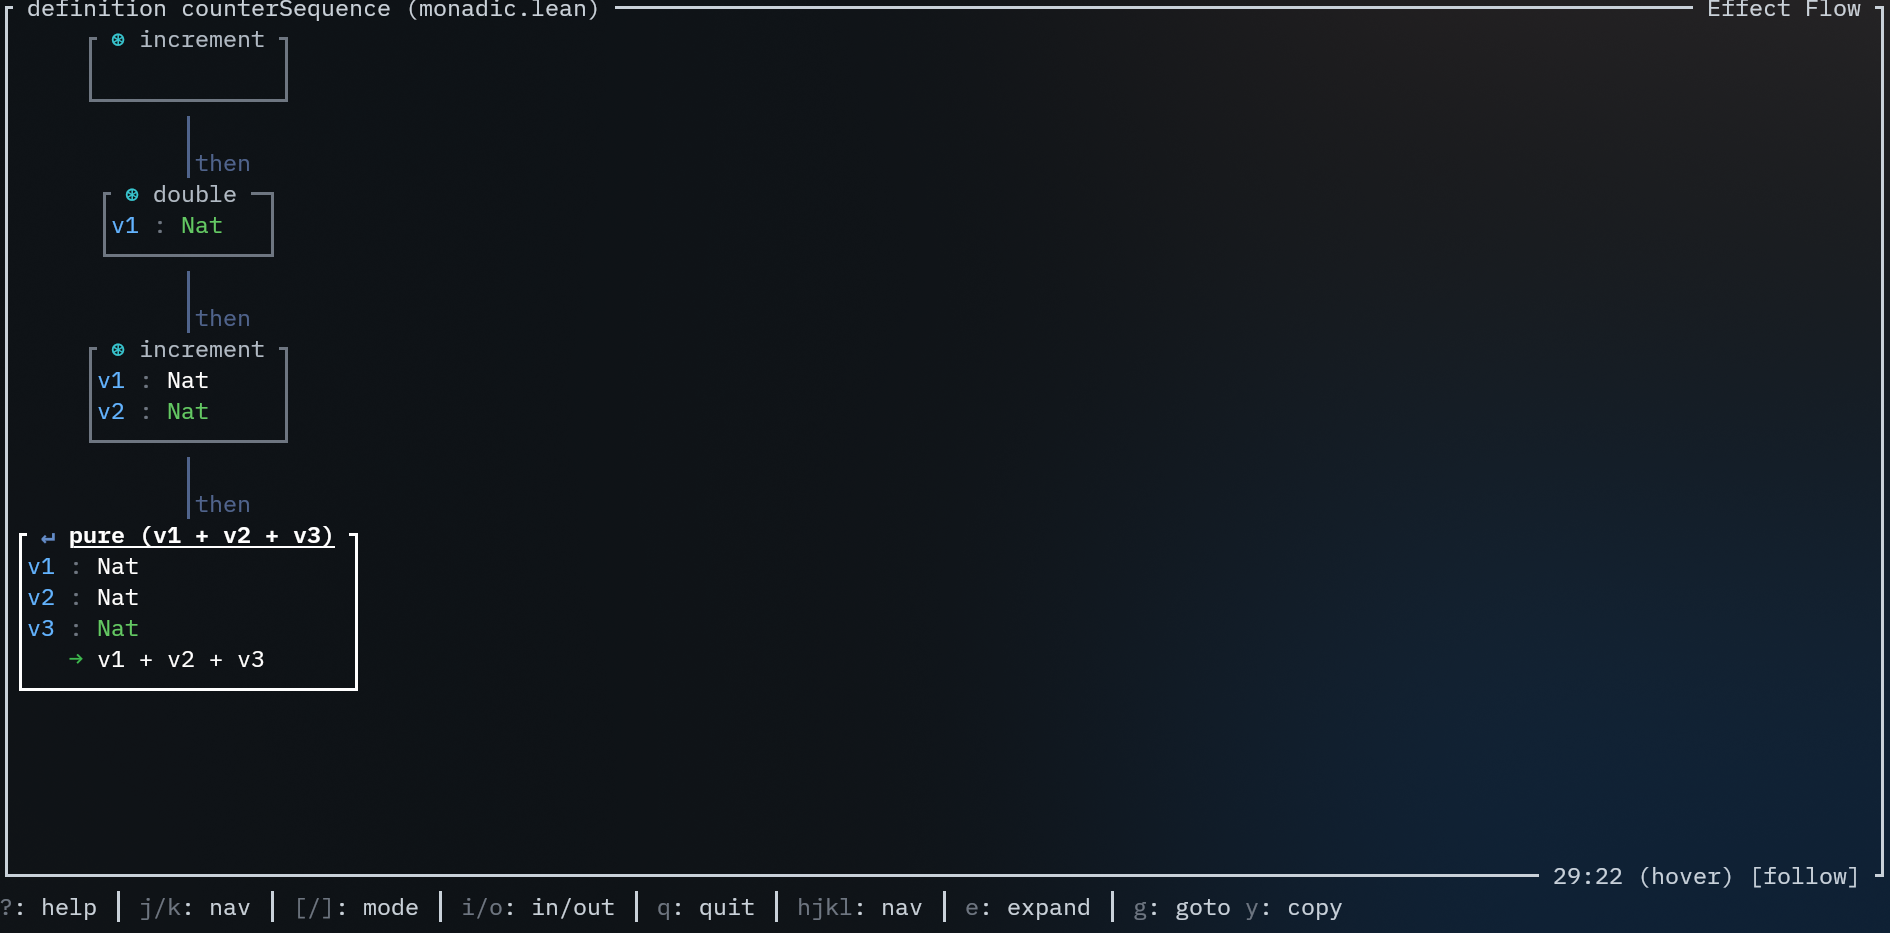
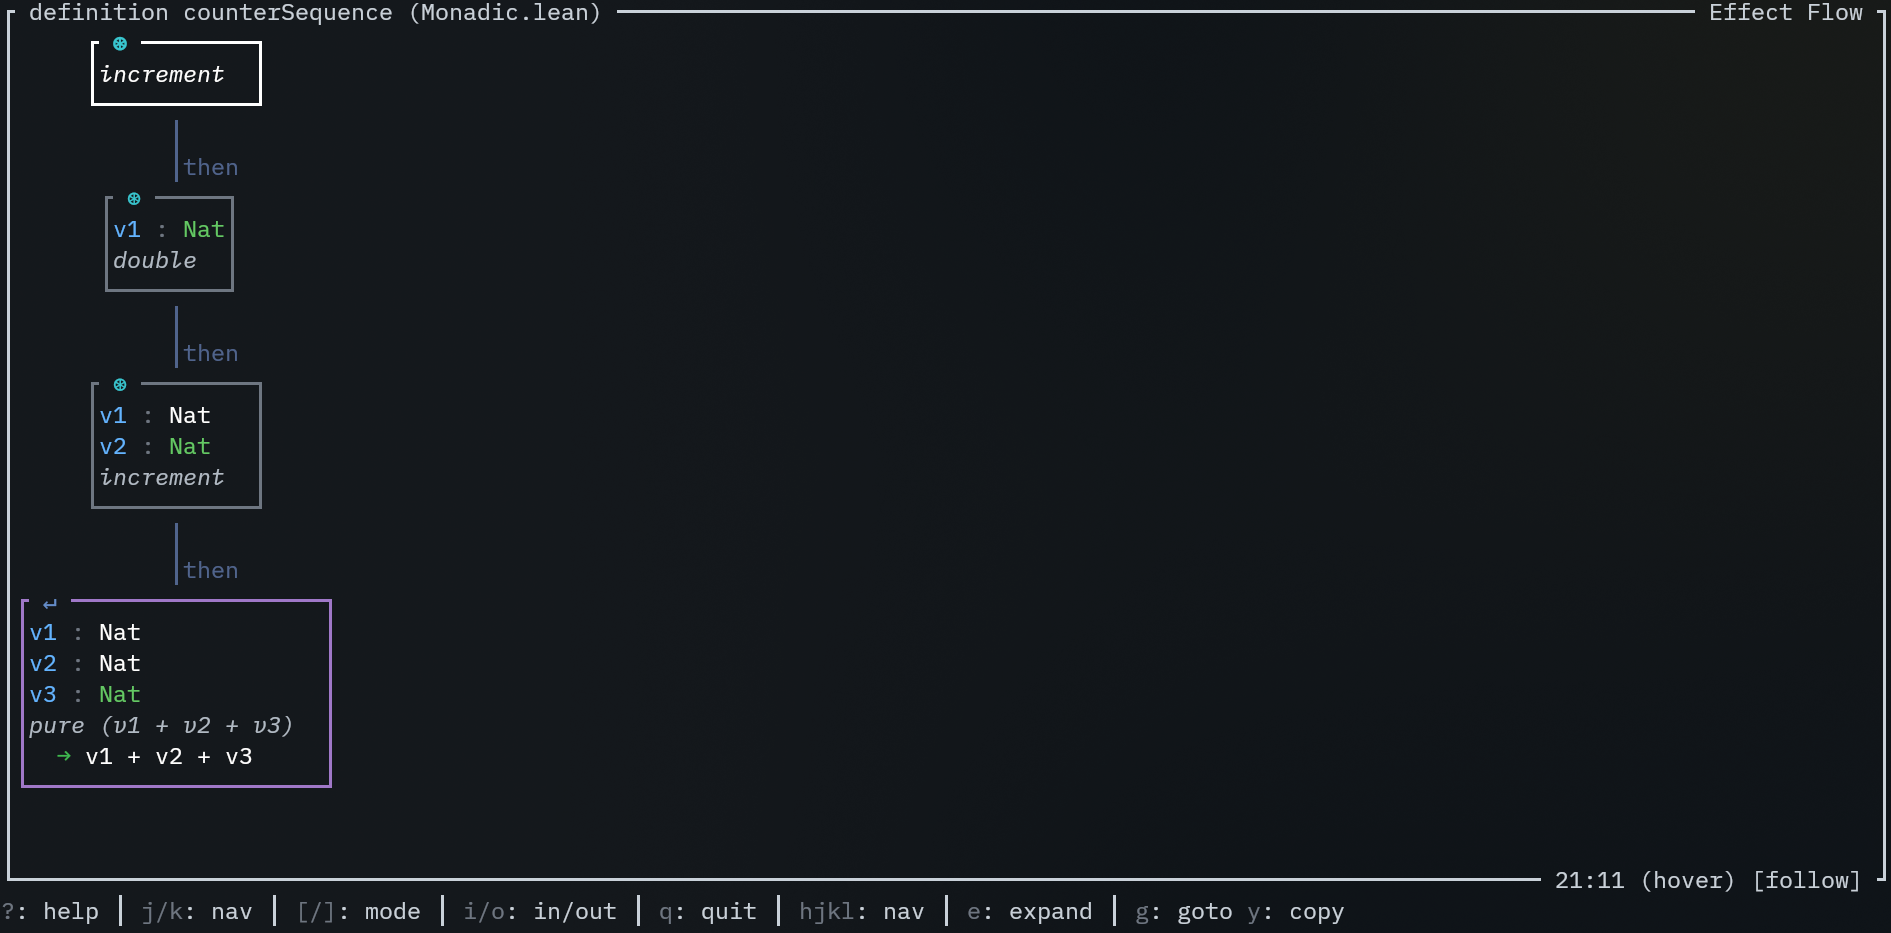
fix: make layout of effect flow nodes more intuitive

diff --git a/src/effect_flow/state_node.rs b/src/effect_flow/state_node.rs
@@ -27,16 +27,11 @@ pub struct EffectStateNodeState {
 pub struct EffectStateNode<'a> {
     node: &'a EffectFlowNode,
     is_current: bool,
-    is_selected: bool,
 }
 
 impl<'a> EffectStateNode<'a> {
-    pub const fn new(node: &'a EffectFlowNode, is_current: bool, is_selected: bool) -> Self {
-        Self {
-            node,
-            is_current,
-            is_selected,
-        }
+    pub const fn new(node: &'a EffectFlowNode, is_current: bool) -> Self {
+        Self { node, is_current }
     }
 
     fn effect_kind(&self) -> &EffectKind {
@@ -82,45 +77,39 @@ impl<'a> EffectStateNode<'a> {
 
     fn title(&self) -> Vec<Span<'static>> {
         let kind = self.effect_kind();
-        let expr_text = self.node.content.to_plain_text();
         let has_error = self.node.has_error();
 
+        let mut spans = Vec::new();
+
+        // Icon in the title (top-left corner)
         let icon_style = if has_error {
             Style::new().fg(Red::BRIGHT)
         } else {
             Style::new().fg(kind.color())
         };
-
-        let mut text_style = if has_error {
-            Style::new().fg(Red::BRIGHT).add_modifier(Modifier::BOLD)
-        } else if self.is_current {
-            Style::new().fg(Color::White).add_modifier(Modifier::BOLD)
-        } else {
-            Style::new().fg(Color::Gray)
-        };
-
-        if self.is_selected {
-            text_style = text_style.add_modifier(Modifier::UNDERLINED);
-        }
-
-        let mut spans = Vec::new();
+        spans.push(Span::styled(format!(" {}", kind.icon()), icon_style));
 
         if has_error {
             spans.push(Span::styled(" ⚠", Style::new().fg(Red::BRIGHT)));
         }
 
-        spans.push(Span::styled(format!(" {} ", kind.icon()), icon_style));
-        spans.push(Span::styled(expr_text, text_style));
-
-        if self.node.edges.len() > 1 {
-            spans.push(Span::styled(
-                format!(" [{}→]", self.node.edges.len()),
-                Style::new().fg(Color::DarkGray),
-            ));
-        }
-
         spans.push(Span::raw(" "));
         spans
+    }
+
+    fn build_expression_line(&self) -> Line<'static> {
+        let has_error = self.node.has_error();
+
+        // Use ITALIC to distinguish expression from goals (which use bold/normal)
+        let style = if has_error {
+            Style::new().fg(Red::BRIGHT).add_modifier(Modifier::ITALIC)
+        } else if self.is_current {
+            Style::new().fg(Color::White).add_modifier(Modifier::ITALIC)
+        } else {
+            Style::new().fg(Color::Gray).add_modifier(Modifier::ITALIC)
+        };
+
+        Line::from(self.node.content.to_spans(style))
     }
 
     fn build_binding_rows(&self) -> Vec<AlignedRow> {
@@ -224,31 +213,40 @@ impl StatefulWidget for EffectStateNode<'_> {
             return;
         }
 
-        // Build table rows: bindings first, then effects
-        let mut rows: Vec<AlignedRow> = Vec::new();
-        rows.extend(self.build_binding_rows());
-        rows.extend(self.build_effect_rows());
+        let mut y = inner.y;
 
-        let table_height = rows.len() as u16;
-        let table_area = Rect::new(
-            inner.x,
-            inner.y,
-            inner.width,
-            table_height.min(inner.height),
-        );
+        // 1. Render bindings table
+        let binding_rows = self.build_binding_rows();
+        if !binding_rows.is_empty() {
+            let bindings_height = (binding_rows.len() as u16).min(inner.height);
+            let bindings_area = Rect::new(inner.x, y, inner.width, bindings_height);
+            Widget::render(AlignedTable::new(binding_rows), bindings_area, buf);
+            y += bindings_height;
+        }
 
-        let table = AlignedTable::new(rows);
-        Widget::render(table, table_area, buf);
+        // 2. Render expression line
+        if y < inner.y + inner.height {
+            buf.set_line(inner.x, y, &self.build_expression_line(), inner.width);
+            y += 1;
+        }
 
-        // Render error diagnostics below the table
+        // 3. Render effects table
+        let effect_rows = self.build_effect_rows();
+        if !effect_rows.is_empty() && y < inner.y + inner.height {
+            let effects_height = (effect_rows.len() as u16).min(inner.y + inner.height - y);
+            let effects_area = Rect::new(inner.x, y, inner.width, effects_height);
+            Widget::render(AlignedTable::new(effect_rows), effects_area, buf);
+            y += effects_height;
+        }
+
+        // 4. Render error diagnostics below
         let error_lines = format_diagnostic_lines(&self.node.diagnostics);
-        let error_y = inner.y + table_height;
-        for (i, line) in error_lines.into_iter().enumerate() {
-            let row_y = error_y + i as u16;
-            if row_y >= inner.y + inner.height {
+        for line in error_lines {
+            if y >= inner.y + inner.height {
                 break;
             }
-            buf.set_line(inner.x, row_y, &line, inner.width);
+            buf.set_line(inner.x, y, &line, inner.width);
+            y += 1;
         }
 
         state.click_regions = self.click_regions(area);

diff --git a/src/effect_flow/types.rs b/src/effect_flow/types.rs
@@ -10,8 +10,7 @@ use ratatui::style::{Color, Style};
 
 use crate::{
     graph_layout::{
-        calculate_node_size, Dag, DagGraph, DagNode, EdgeData, LayoutGraph, LayoutSize, NavNode,
-        NodeTextContent,
+        Dag, DagGraph, DagNode, EdgeData, LayoutGraph, LayoutSize, NavNode, NodeTextContent,
     },
     protocol::{
         DiagnosticInfo, DiagnosticSeverity, DisplayStyle, GenericDag, GraphEdge, GraphNode,
@@ -59,7 +58,7 @@ impl EffectKind {
         }
     }
 
-    pub fn icon(&self) -> &str {
+    pub fn icon(&self) -> &'static str {
         match self {
             Self::EffectBind => "⊛",
             Self::EffectBranch => "⎇",
@@ -227,6 +226,9 @@ impl NodeTextContent for EffectFlowNode {
             }
         }
 
+        // Add expression line - always present
+        lines.push(self.content.to_plain_text());
+
         // Add forward/backward effect lines
         if let Some(fwd) = &self.forward {
             lines.push(format!("→ {fwd}"));
@@ -237,7 +239,8 @@ impl NodeTextContent for EffectFlowNode {
 
         lines.extend(format_error_diagnostics(&self.diagnostics));
 
-        if lines.is_empty() && self.is_leaf() && !self.has_error() {
+        if self.is_leaf() && !self.has_error() && self.forward.is_none() && self.backward.is_none()
+        {
             lines.push("✓".to_string());
         }
 
@@ -247,7 +250,71 @@ impl NodeTextContent for EffectFlowNode {
 
 impl LayoutSize for EffectFlowNode {
     fn layout_size(&self) -> (u16, u16) {
-        calculate_node_size(self)
+        const BORDER_AND_PADDING: usize = 4;
+        const BORDER_HEIGHT: u16 = 2;
+
+        let visible_bindings = self.visible_bindings();
+        let shows_completed = self.shows_completed_marker();
+
+        let content_width = [
+            Self::binding_table_width(&visible_bindings),
+            self.content.to_plain_text().chars().count(),
+            self.effect_width(),
+            if shows_completed {
+                "✓ completed".chars().count()
+            } else {
+                0
+            },
+        ]
+        .into_iter()
+        .max()
+        .unwrap_or(0);
+
+        let line_count = visible_bindings.len()
+            + 1 // expression
+            + usize::from(self.forward.is_some())
+            + usize::from(self.backward.is_some())
+            + usize::from(shows_completed);
+
+        let width = (content_width + BORDER_AND_PADDING) as u16;
+        let height = BORDER_HEIGHT + line_count as u16;
+
+        (width, height)
+    }
+}
+
+impl EffectFlowNode {
+    fn visible_bindings(&self) -> Vec<&LocalBinding> {
+        self.bindings
+            .iter()
+            .filter(|b| !b.is_implicit && !b.is_instance)
+            .collect()
+    }
+
+    fn binding_table_width(bindings: &[&LocalBinding]) -> usize {
+        if bindings.is_empty() {
+            return 0;
+        }
+        let max_name = bindings.iter().map(|b| b.name.chars().count()).max();
+        let max_type = bindings
+            .iter()
+            .map(|b| b.type_.to_plain_text().chars().count())
+            .max();
+
+        max_name.unwrap_or(0) + 1 + max_type.unwrap_or(0)
+    }
+
+    fn effect_width(&self) -> usize {
+        [&self.forward, &self.backward]
+            .into_iter()
+            .flatten()
+            .map(|s| 2 + s.chars().count())
+            .max()
+            .unwrap_or(0)
+    }
+
+    fn shows_completed_marker(&self) -> bool {
+        self.is_leaf() && !self.has_error() && self.forward.is_none() && self.backward.is_none()
     }
 }
 
@@ -413,7 +480,8 @@ impl EffectFlowDag {
     }
 
     /// Get all node IDs that should be hidden when expand is collapsed.
-    /// This includes direct targets of "expand" edges and all their descendants.
+    /// This includes direct targets of "expand" edges and all their
+    /// descendants.
     fn expand_target_ids(&self) -> HashSet<NodeId> {
         let roots = self.direct_expand_targets();
         self.reachable_from(&roots)

diff --git a/src/effect_flow/graph_pane.rs b/src/effect_flow/graph_pane.rs
@@ -68,14 +68,8 @@ pub fn render_graph_pane(
         })
         .flat_map(|(render_area, node, pos)| {
             let is_current = graph.is_current(pos.index);
-            let is_selected =
-                matches!(selection, Some(Selection::Goal { node_id, .. }) if node_id == node.id);
             let mut node_state = EffectStateNodeState::default();
-            EffectStateNode::new(node, is_current, is_selected).render(
-                render_area,
-                buf,
-                &mut node_state,
-            );
+            EffectStateNode::new(node, is_current).render(render_area, buf, &mut node_state);
             node_state.click_regions
         })
         .collect();

diff --git a/README.md b/README.md
@@ -180,7 +180,7 @@ Visualizes your active proof as a semantic tableau. This is based on how logicia
 
 Again, press `g` to jump to the selected hypothesis or goal. Use the arrow keys or `hjkl` to jump with keyboard only.
 
-![(Screenshot in repo)](https://codeberg.org/wvhulle/lean-tui/media/branch/main/screenshots/semantic_tableau.png) |
+![(Screenshot in repo)](https://codeberg.org/wvhulle/lean-tui/media/branch/main/screenshots/semantic_tableau.png)
 
 For **[Paperproof](https://github.com/Paper-Proof/paperproof) users**: Paperproof was a big inspiration for this view. However, it is Web-based. I used their approach to move most of the logic into Lean and add an RPC method there.
 
